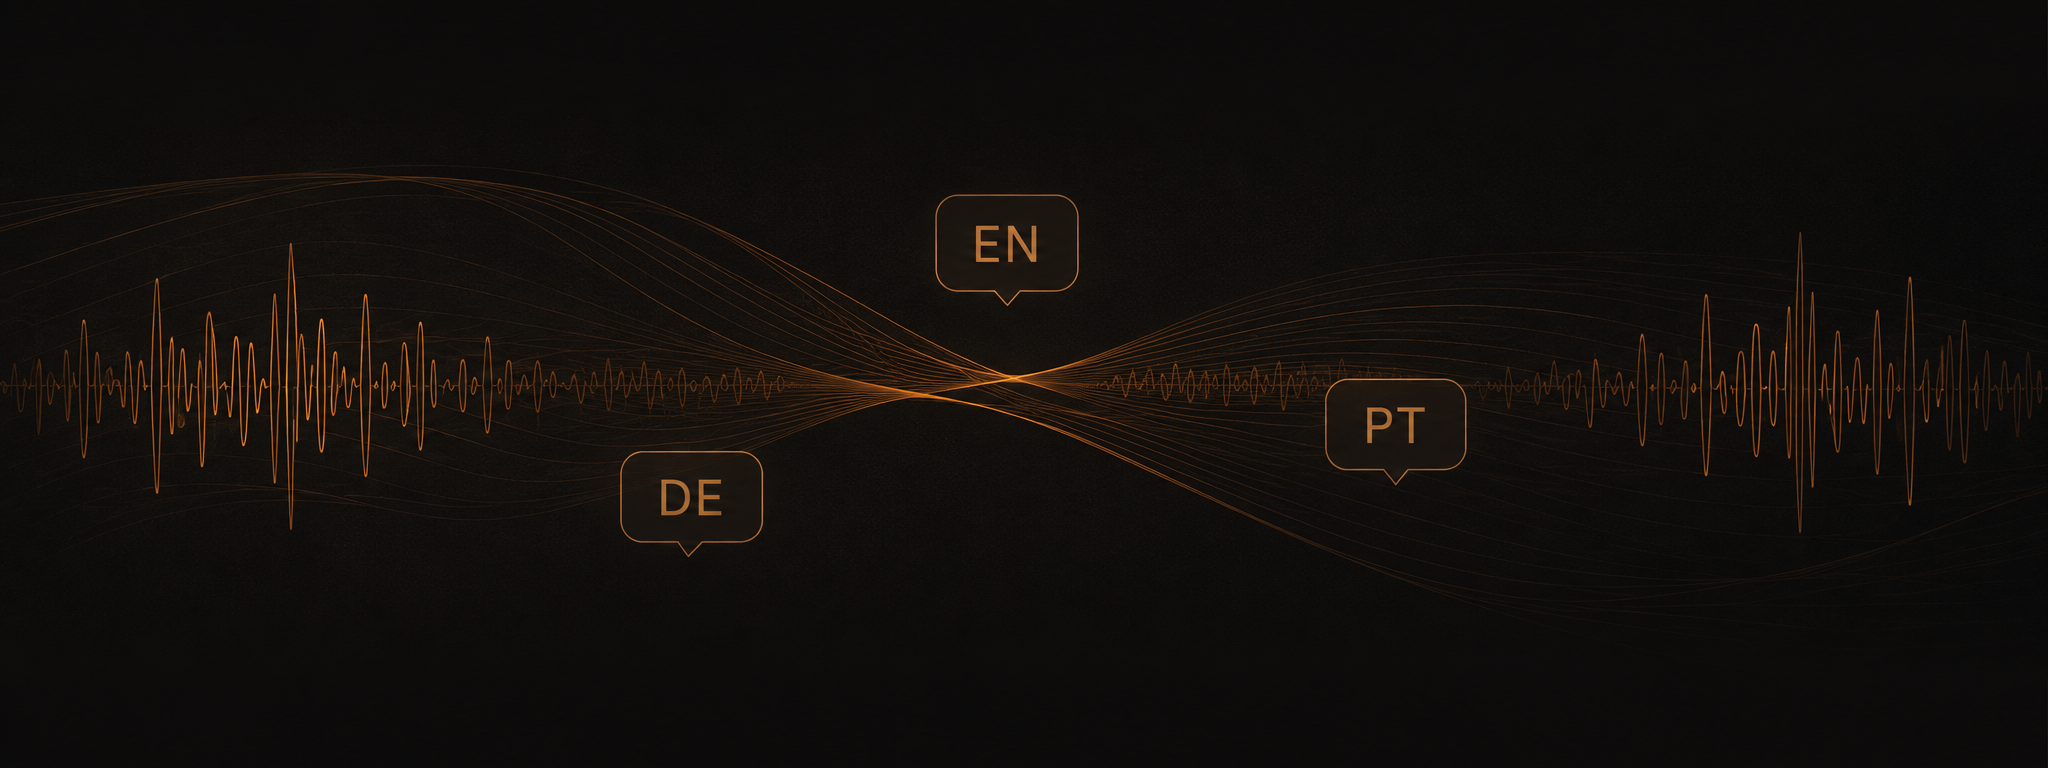
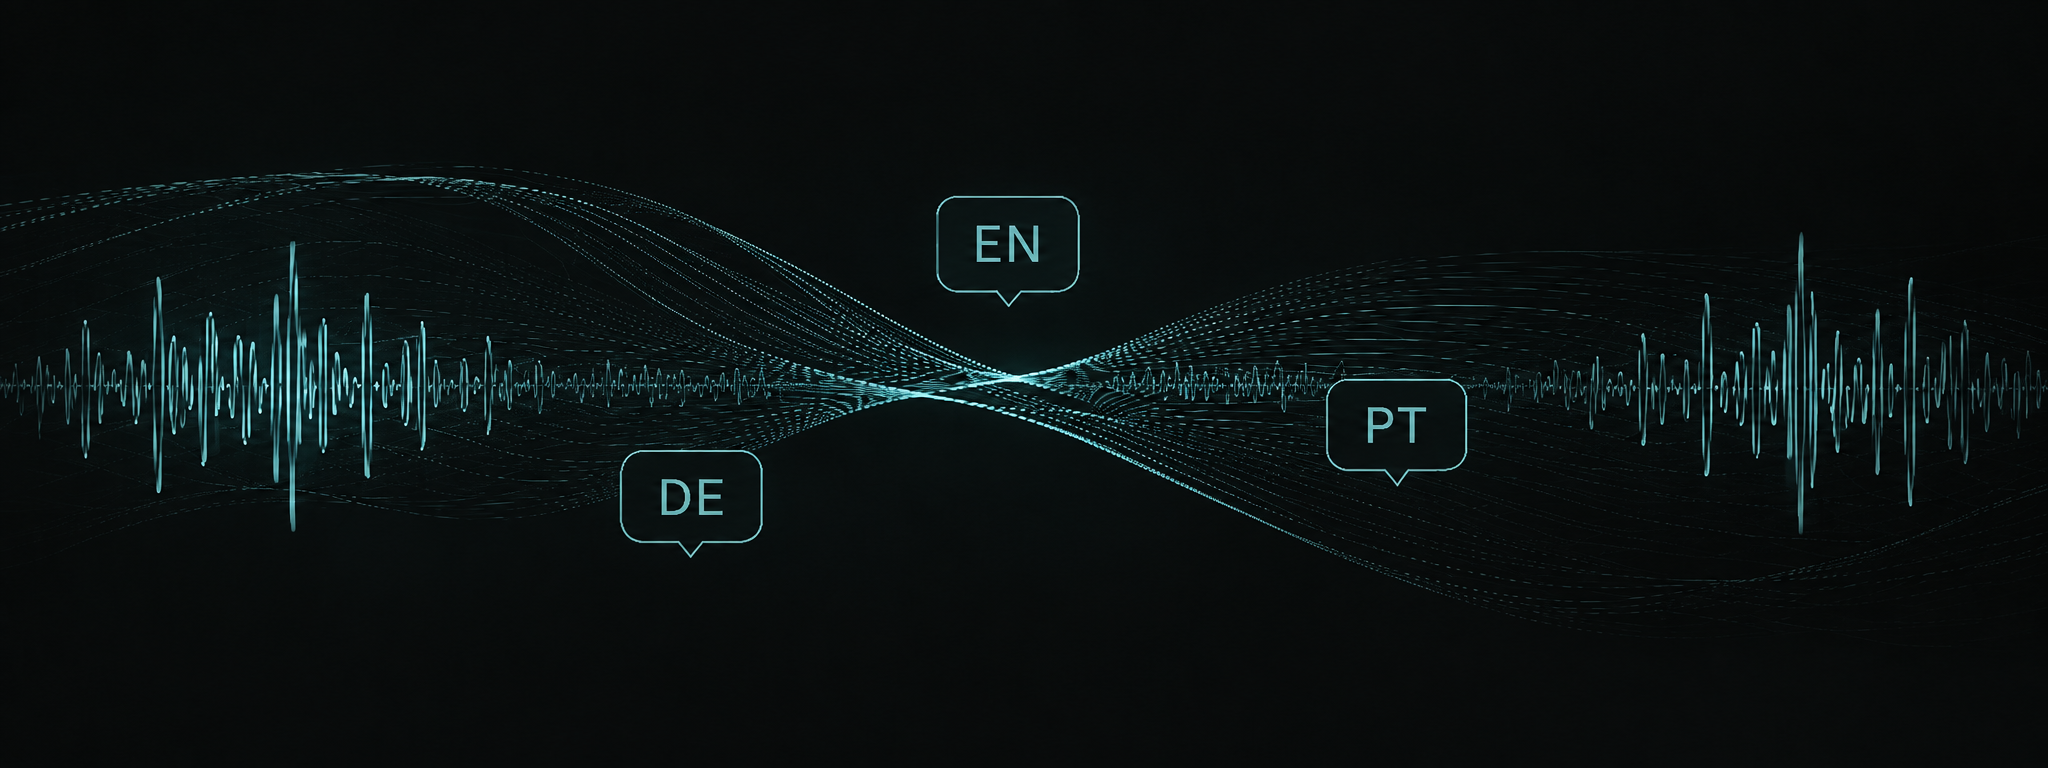
Update portfolio colour palette and project images

diff --git a/css/styles.css b/css/styles.css
@@ -1,12 +1,12 @@
 :root {
-  --color-bg: #0d0d0c;
-  --color-surface: #151412;
-  --color-text: #f2eee8;
-  --color-muted: #b8afa5;
-  --color-subtle: #756b62;
-  --color-accent: #c98b62;
-  --color-accent-dark: #8f5f43;
-  --color-border: rgba(242, 238, 232, 0.14);
+  --color-bg: #090A0B;
+  --color-surface: #111315;
+  --color-text: #F2F1ED;
+  --color-muted: #A5A7AA;
+  --color-subtle: #6F747A;
+  --color-accent: #5F9EA0;
+  --color-accent-dark: #5F9EA0;
+  --color-border: #24282E;
 
   --font-heading: Georgia, "Times New Roman", serif;
   --font-body: Arial, Helvetica, sans-serif;
@@ -280,17 +280,17 @@ a:focus-visible {
 }
 
 .sound-field-accent path {
-  stroke: rgba(201, 139, 98, 0.52);
+  stroke: rgba(95, 158, 160, 0.52);
   stroke-width: 1.6;
 }
 
 .sound-field-rings circle {
-  stroke: rgba(201, 139, 98, 0.18);
+  stroke: rgba(95, 158, 160, 0.18);
   stroke-width: 1;
 }
 
 .sound-field-particles circle {
-  fill: rgba(201, 139, 98, 0.52);
+  fill: rgba(95, 158, 160, 0.52);
 }
 
 .sound-field-muted {
@@ -717,7 +717,7 @@ p {
 }
 
 .button-primary:hover {
-  background: #d69b73;
+  background: #7DA5A6;
 }
 
 .button-secondary {
@@ -1173,7 +1173,7 @@ p {
   background:
     linear-gradient(
       135deg,
-      rgba(201, 139, 98, 0.12),
+      rgba(91, 141, 239, 0.12),
       rgba(21, 20, 18, 0.9)
     );
 }
@@ -1746,7 +1746,7 @@ p {
   background:
     radial-gradient(
       circle at center,
-      rgba(201, 139, 98, 0.12),
+      rgba(91, 141, 239, 0.12),
       rgba(13, 13, 12, 0.2) 34%,
       rgba(13, 13, 12, 0.9) 70%
     );
@@ -1884,7 +1884,7 @@ p {
   background:
     linear-gradient(
       135deg,
-      rgba(201, 139, 98, 0.14),
+      rgba(91, 141, 239, 0.14),
       rgba(21, 20, 18, 0.72)
     );
 }
@@ -2036,7 +2036,7 @@ p {
 }
 
 .sound-recording-card.is-active {
-  border-color: rgba(201, 139, 98, 0.65);
+  border-color: rgba(91, 141, 239, 0.65);
 }
 
 .sound-recording-content {
@@ -2187,7 +2187,7 @@ p {
   top: 6px;
   width: 20px;
   height: 20px;
-  border: 1px solid rgba(201, 139, 98, 0.9);
+  border: 1px solid rgba(91, 141, 239, 0.9);
   border-radius: 50% 50% 50% 0;
   background: var(--color-accent);
   transform: translateX(-50%) rotate(-45deg);
